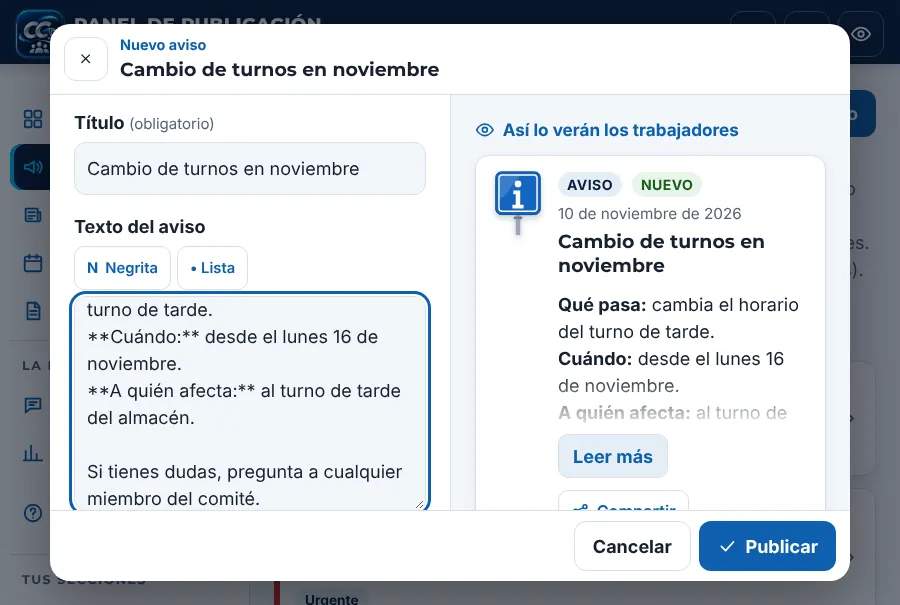
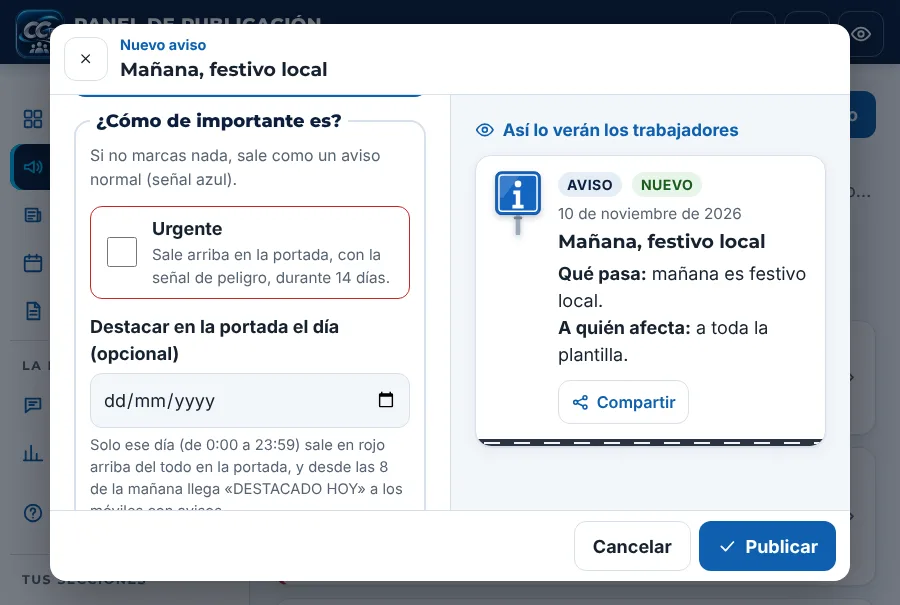
v24: README, CLAUDE.md y guía al día (editor de aviso y lista de avisos)
Claude-Session: https://claude.ai/code/session_011SdsLKzTmFSpwPz2orkjvZ

diff --git a/guia.html b/guia.html
@@ -100,7 +100,7 @@
       <li>Mira <b>«Así lo verán los trabajadores»</b>: en el ordenador sale a la derecha; en el móvil, pulsa <b>«Ver cómo quedará en la web»</b> (al final del formulario) o la pestaña <b>Vista previa</b>.</li>
       <li>Pulsa <b>Publicar</b> una sola vez. Mientras dice «Guardando…» o «Avisando a los móviles…», los botones se quedan quietos: espera a que salga el mensaje de abajo.</li>
     </ol>
-    <figure><img src="img/guia/editor-pc.webp" alt="Editor con vista previa" loading="lazy" width="900" height="605"><figcaption>A la izquierda se escribe; a la derecha se ve cómo quedará.</figcaption></figure>
+    <figure><img src="img/guia/editor-pc.webp" alt="Editor de un aviso con el recuadro «¿Cómo de importante es?» y la vista previa" loading="lazy" width="900" height="605"><figcaption>A la izquierda se escribe; a la derecha se ve cómo quedará.</figcaption></figure>
     <ul>
       <li><b>No se pierde lo escrito</b>: si cierras sin guardar (también con el botón Atrás del móvil), el panel te pregunta antes. Y lo que escribes se guarda solo en el móvil mientras escribes: si se cierra la ventana o se acaba la batería, al volver a abrirlo sale <b>«Tienes un borrador sin guardar»</b> con <b>Recuperarlo</b> o <b>Descartarlo</b>.</li>
       <li><b>Si la sesión ha caducado</b> (por ejemplo, el móvil lleva muchos días sin entrar), el panel te lo dice y te pide la contraseña. Al entrar, sale otra vez lo que estabas escribiendo: pulsa Publicar de nuevo.</li>
@@ -112,12 +112,15 @@
   <section id="g-aviso">
     <h2><span class="num">4</span>Avisos: urgentes, destacados un día y programados</h2>
     <ul>
-      <li><b>Urgente</b>: marca la casilla y el aviso sale destacado en rojo arriba en la portada durante 14 días.</li>
+      <li>Al escribir un aviso, el recuadro <b>«¿Cómo de importante es?»</b> junta las dos formas de destacarlo. Si no marcas nada, sale como un aviso normal, con la señal azul.</li>
+      <li><b>Urgente</b>: marca la casilla y el aviso sale destacado arriba en la portada, con la señal de peligro, durante 14 días. En el móvil sale justo debajo de los botones «Ver los avisos» y «Buzón anónimo».</li>
       <li><b>Avisos y anuncios no son lo mismo</b>: en <b>Avisos</b>, lo importante que hay que destacar (huelga, festivo, elecciones, último día para entregar algo). En <b>Info general</b>, los <b>anuncios</b>: información general sin destacar (por ejemplo, un cambio de pausa en un turno).</li>
       <li><b>Destacar en la portada el día</b>: elige un día. El aviso se ve como siempre y ese día sale en rojo arriba del todo en la portada, y a partir de las 8 de la mañana llega «DESTACADO HOY» a los móviles. Para quitarlo, pulsa <b>«Quitar el destacado»</b> y guarda.</li>
       <li><b>Programar</b>: en «Programar para más tarde» elige día y hora. No se verá hasta entonces, y a esa hora se avisa a los móviles. El botón pasa a decir <b>Programar</b>.</li>
       <li>Los avisos programados salen en Inicio, en «Avisos programados».</li>
+      <li>En la lista de <b>Avisos</b> del panel, cada aviso lleva su señal pequeña (azul o de peligro) y su etiqueta («Urgente», «Programado»). La explicación de arriba sale corta: pulsa <b>«Cómo funciona»</b> para leerla entera.</li>
     </ul>
+    <figure class="movil"><img src="img/guia/lista-avisos.webp" alt="Lista de avisos del panel con la señal de cada aviso" loading="lazy" width="390" height="844"><figcaption>La lista de avisos: la señal de peligro marca los urgentes.</figcaption></figure>
   </section>
 
   <section id="g-reunion">

diff --git a/CLAUDE.md b/CLAUDE.md
@@ -9,7 +9,7 @@ La gestiona desde el panel el padre de Lorena (usuario GitHub `mariancracana77-S
 
 - Web: https://mariancracana77-ssccoo.github.io/Comite-calsina-carre/ (GitHub Pages desde `main`, raíz)
 - Panel: `admin.html` (email + contraseña de Supabase)
-- Versión actual: **23**
+- Versión actual: **24**
 - **Nombre** (lo pidieron Lorena y su padre el 9/11/2026, al volver a la cuenta de siempre): se ve «Calsina Carré» en títulos, cabecera, pie, portada (también en el camión), manifest y cartel, como en la v20. Desde la v23 el camión de la portada va **sin** nombre (se veía borroso; lo pidió Lorena el 9/11/2026): imágenes de antes de la petición n.º 7. No volver a ponerle texto a la imagen. La v21 sin nombres quedó solo en local (rama `limpio`).
 
 ## Reglas (las mismas que en CCOO)
@@ -79,7 +79,8 @@ El padre pidió mostrar lo que tiene la empresa (camión, toro, transpaleta, dis
 - `visor.js` (petición n.º 5 del panel): al tocar una foto de una tarjeta (`.galeria a`) o un PDF adjunto (`a[data-visor="pdf"]`, lo pone `adjuntosHTML`) se abre encima de la página con «Cerrar» (Esc y el botón Atrás también cierran). Los PDF se pintan con pdf.js (`lib/pdfjs`, carga solo al usarlo). Word/Excel siguen abriéndose aparte. Impedir capturas no es posible en una web.
 - **v22 (revisión profesional)**: `WEB_URL` (comun.js) y el QR de `cartel.js` salen de `new URL("./", location.href)`; lo que hay que cambiar a mano si cambia la dirección está en el README («Si cambia la dirección de la web»: `og:url`/`og:image` de `index.html`, «Volver al inicio» de `404.html`, `config_privada.web_url` y Auth Site URL/Redirect URLs de Supabase). `404.html`: página propia sin scripts, todo dentro (estilos en la página, logo y favicon como `data:`), porque GitHub Pages la sirve a cualquier profundidad. `favicon.ico`, `robots.txt` (permite todo, sin sitemap), `img/logo-96.webp` (logo de la cabecera y del pie; `icon-192.png` sigue para el manifest, el cartel y las notificaciones). `img/og.png` reducida a 256 colores (~130 KB; al rehacerla con `herramientas/og.cjs`, reducirla igual). `sw.js`: instala con `cache: "reload"` y en las páginas espera a la red como mucho 4 s (`ESPERA_RED`) antes de usar la copia. `visor.js`: las páginas del PDF se dibujan al acercarse (IntersectionObserver) y se borran al alejarse; el contenido es enfocable y Tab alterna entre «Cerrar» y el PDF. `admin.js`: si el panel está dentro de un iframe, no se muestra; subidas limitadas a `ACEPTA_SUBIDA`/`subidaPermitida` (JPG, PNG, WebP, PDF y oficina; nunca SVG ni HTML). `comun.js`: flechas en los `role="tablist"`. Foco con `--foco` (azul en claro, celeste en oscuro; celeste sobre los fondos azul noche). Texto de Cookies por defecto con todas las claves `comite-` (`COOKIES_POR_DEFECTO` en `app.js`: si se añade una clave, ponerla allí y en el texto de Supabase). «Borrar mis datos» también da de baja los avisos al móvil.
 - `pruebas/`: `mock-supabase.js` (datos de prueba en memoria; `localStorage prueba-sesion = 1` entra al panel; ganchos `window.__PRE`, `__TARDA`, `__FALLA`, `__PUSH`), `humo.cjs` (puerto `PUERTO`, 8790), `panel.cjs` (8794) y `sw.cjs` (service worker sobre una copia, 8795). Con varios agentes a la vez, cada uno con su puerto.
-- **v23, revisión a fondo (tanda 3, 10/11/2026)**. Web: `diaMadrid`, `sinAcentos`, `textoHTML(t, {enlaces:false})` en comun.js; `R.abrePlegable` y «Actualizado el…» (`.actualizado`) en render.js; app.js pinta primero `comite-copia` y luego la red (`ESPERA_DATOS` 12 s, banda de red lenta, «Reintentar»), enlaces a cosas borradas abren la lista con `.aviso-falta`, anclas `#preguntas`/`#pregunta-N`, petición n.º 10 en `preparaPush`; sw.js: lo versionado/`img`/`fuentes`/`lib` sale de caché, lo demás a la red con 4 s; **OJO: `lib/supabase.js` no lleva `?v=`: al actualizarlo, cambiarle el nombre o ponerle `?v=`**; licencia en `lib/LICENCIA-supabase-js.txt`. Panel: `bloqueaPie`/`conBoton` (sin doble toque), `noCambio`/`motivoNoCambio`/`sesionCaducada` (nunca un «hecho» falso; `update`/`delete` con `.select("id")`), `haySinGuardar`/`beforeunload`/`popstate`, borrador `comite-adm-borrador-<tabla>-<id|nuevo>`, «Deshacer» (`avisa(txt, mal, ["Deshacer", fn])`, `enPapelera`, `deshacerCambio`), `PLANTILLAS` (texto entre corchetes; no deja publicar si queda `[…]`), `limpiaFoto` (canvas: sin EXIF/GPS, 2000 px), `TIPO_EXT` (contentType por extensión; el cierre 3 de Supabase debe usar la misma lista), «Borrar para siempre» en la Papelera (necesita la política de borrado en `papelera`; sin ella, el panel dice que no se ha podido), `.hola-dato.pendiente` (no usar la clase `aviso` en el panel: choca con `.aviso::after` de styles.css), «Nuevo» oculto donde no se crea nada. Lo de GUSTO de la auditoría visual (scratchpad de «Comité», `visual/propuesta.md`) espera el sí de Lorena.
+- **v23, revisión a fondo (tanda 3, 10/11/2026)**. Web: `diaMadrid`, `sinAcentos`, `textoHTML(t, {enlaces:false})` en comun.js; `R.abrePlegable` y «Actualizado el…» (`.actualizado`) en render.js; app.js pinta primero `comite-copia` y luego la red (`ESPERA_DATOS` 12 s, banda de red lenta, «Reintentar»), enlaces a cosas borradas abren la lista con `.aviso-falta`, anclas `#preguntas`/`#pregunta-N`, petición n.º 10 en `preparaPush`; sw.js: lo versionado/`img`/`fuentes`/`lib` sale de caché, lo demás a la red con 4 s; **OJO: `lib/supabase.js` no lleva `?v=`: al actualizarlo, cambiarle el nombre o ponerle `?v=`**; licencia en `lib/LICENCIA-supabase-js.txt`. Panel: `bloqueaPie`/`conBoton` (sin doble toque), `noCambio`/`motivoNoCambio`/`sesionCaducada` (nunca un «hecho» falso; `update`/`delete` con `.select("id")`), `haySinGuardar`/`beforeunload`/`popstate`, borrador `comite-adm-borrador-<tabla>-<id|nuevo>`, «Deshacer» (`avisa(txt, mal, ["Deshacer", fn])`, `enPapelera`, `deshacerCambio`), `PLANTILLAS` (texto entre corchetes; no deja publicar si queda `[…]`), `limpiaFoto` (canvas: sin EXIF/GPS, 2000 px), `TIPO_EXT` (contentType por extensión; el cierre 3 de Supabase debe usar la misma lista), «Borrar para siempre» en la Papelera (necesita la política de borrado en `papelera`; sin ella, el panel dice que no se ha podido), `.hola-dato.pendiente` (no usar la clase `aviso` en el panel: choca con `.aviso::after` de styles.css), «Nuevo» oculto donde no se crea nada. Lo de GUSTO de la auditoría visual (scratchpad de «Comité», `visual/propuesta.md`): Lorena eligió el 10/11/2026 lo de la v24; el resto (Inicio del panel, accesos en 2 columnas, etc.) no se hace.
+- **v24 (lo eligió Lorena el 10/11/2026, auditoría visual)**: portada del móvil con el bloque azul más bajo, los dos botones («Ver los avisos» y «Buzón anónimo») y lo urgente justo debajo, antes de los accesos: `#urgente-movil` en `index.html` (app.js pinta el mismo aviso en `#urgente` y `#urgente-movil`; el CSS enseña `#urgente-movil` por debajo de 760 px y `#urgente` en la columna de la derecha por encima; vacío = sin hueco). Editor de avisos: `urgente` y `destacar_dia` con `grupo: "importancia"` → recuadro `fieldset.grupo-campos` «¿Cómo de importante es?» (`GRUPOS_CAMPOS`/`camposHTML` en admin.js; opción `explica` en los campos «si»); se guardan igual. Listas del panel: `.cab-seccion .titulo-vista` sin mayúsculas, explicación `#ayuda-lista.plegada` (2 líneas) con botón «Cómo funciona» (`data-mas-info`, solo si no cabe) y en avisos `R.senal` pequeña (`.mini-senal`, sin luz). Esquinas: `--r-s` 8, `--r-m` 12, `--r-l` 16 (`--radio` = `--r-l`). `R.reunion`: fecha y título en `.reunion-cab`, el resto a todo el ancho. En oscuro, `.etq.rojo` y `.etq.nuevo` con fondo al 18 %. El Inicio del panel no se tocó (lo dijo Lorena).
 
 ## Al publicar una versión nueva
 Cambiar el número en: `?v=N` de los HTML, `VERSION_WEB` en `comun.js` y `VERSION` en `sw.js`. Añadir línea en «Versiones» del README. Pasar antes `pruebas/humo.cjs`, `pruebas/panel.cjs` y `pruebas/sw.cjs` (en verde) y repasar la lista del vault «Comité/Guías/Lista antes de publicar».

diff --git a/README.md b/README.md
@@ -98,6 +98,7 @@ NODE_PATH=$(npm root -g) node pruebas/sw.cjs
 - **v16**: anuncios y avisos largos salen recogidos con «Leer más» (petición n.º 4 del padre). Calendario de reuniones con colores: reuniones en verde, festivos de España en rojo y festivos de Cataluña con la senyera, con leyenda (petición n.º 3; al tocar un festivo sale su nombre; festivos de 2026, falta añadir 2027 cuando salga el oficial).
 - **v17**: calendario con botón «Mes / Año entero» (12 meses en pequeño; al tocar un mes se abre). Festivos laborales oficiales de Cataluña de 2026 y 2027 sacados del BOE (BOE-A-2025-21667 y BOE-A-2026-21254); los de España con la bandera española. Reuniones con la empresa en azul y las del comité en verde (petición n.º 6 del padre). También: panel del padre más fácil (lo pidió Lorena): sus peticiones en dos bloques, «Lo tuyo» (Te toca a ti / Esperando) arriba y «Confirmado por Lorena» debajo; preguntas de Claude con botones y «Otra cosa»; «Que lo siga Lorena», «Quitar de mi lista» y «No me gusta, quitarlo»; menos texto, buscador, negritas y fotos grandes en el chat. En la portada, el nombre «Comité de empresa · (nombre de la empresa)» se ve mejor.
 - **v23**: el nombre del camión de la portada se quita otra vez porque se veía borroso (lo pidió Lorena el 9/11/2026; «Calsina Carré» sigue en la cabecera, el título y los textos); «Avisar a Lorena» del panel dice «solo emergencias» y pregunta antes de avisar (fallo en la web o cambio que haga falta ya). Revisión a fondo (tanda 3, 10/11/2026): **web** — carga primero la copia guardada y avisa si la red va lenta (12 s) o no hay conexión, «Actualizado el…» en avisos y actas, «Escribir al comité (email)» en el pie, botones de 44 px, la portada ya no salta al cargar, pestañas en dos filas en el PC, enlaces viejos avisan de que ya no existe, textos legales y del buzón nuevos, el service worker no se queda colgado, los avisos al móvil ya no piden activarse cada vez (petición n.º 10); **panel** — no publica dos veces con un doble toque, nunca dice «hecho» sin guardar (avisa si la sesión ha caducado y conserva lo escrito), pregunta antes de salir sin guardar, borrador guardado solo, «Deshacer», plantillas de aviso, convocatoria y acta, «Ver cómo quedará en la web» en el móvil, fotos sin GPS, «Borrar para siempre» en la Papelera, guía al día.
+- **v24**: mejoras de aspecto que eligió Lorena el 10/11/2026 (auditoría visual): en el móvil, el bloque azul de la portada es más bajo y lo urgente (aviso urgente o «Destacado hoy», con su señal y las rayas) sale justo debajo de «Buzón anónimo», antes de los accesos (en el PC sigue a la derecha); en el editor de avisos, «Urgente» y «Destacar en la portada el día» van juntos en el recuadro «¿Cómo de importante es?»; en las listas del panel, título como en la web, explicación plegada con «Cómo funciona» y señal pequeña en cada aviso; esquinas en 3 medidas, tarjetas de reunión con el texto a todo el ancho y etiquetas más suaves en modo oscuro. El Inicio del panel no cambia.
 - **v22**: revisión profesional (arreglos seguros): «Ir al contenido» ya no lleva a la portada; la dirección de la web sale sola de donde esté publicada (lista de lo que hay que cambiar en «Si cambia la dirección de la web»); barra de abajo sin botones cortados a 320 px con letra muy grande; más contraste en modo oscuro y contorno de foco visible; visor de PDF que dibuja las páginas al acercarse y se mueve con el teclado; el panel no se deja meter dentro de otra web; página 404 propia; caché sin conexión más fiable (espera a la red como mucho 4 s); imagen al compartir más ligera, logo pequeño, `favicon.ico` y `robots.txt`; «Borrar mis datos» también quita los avisos al móvil; subidas del panel limitadas a fotos, PDF y documentos de oficina; aviso al descargar la copia; textos de privacidad por defecto más exactos y nota en el buzón (no es el canal de denuncias de la Ley 2/2023). Además, vuelta a la cuenta y dirección de siempre con el nombre de Calsina Carré y el nombre en el camión de la portada (lo pidieron Lorena y su padre el 9/11/2026).
 - **v21**: versión sin nombres de empresa para la cuenta provisional (7/11/2026); no llegó a publicarse aquí: se quedó en local (rama `limpio`).
 - **v20**: petición n.º 8 del padre: en el calendario, «Año entero» cabe en una sola pantalla (3 columnas en el móvil, 4 en tableta y 6 en el PC, días más bajos; también con 320 px y letra grande).
